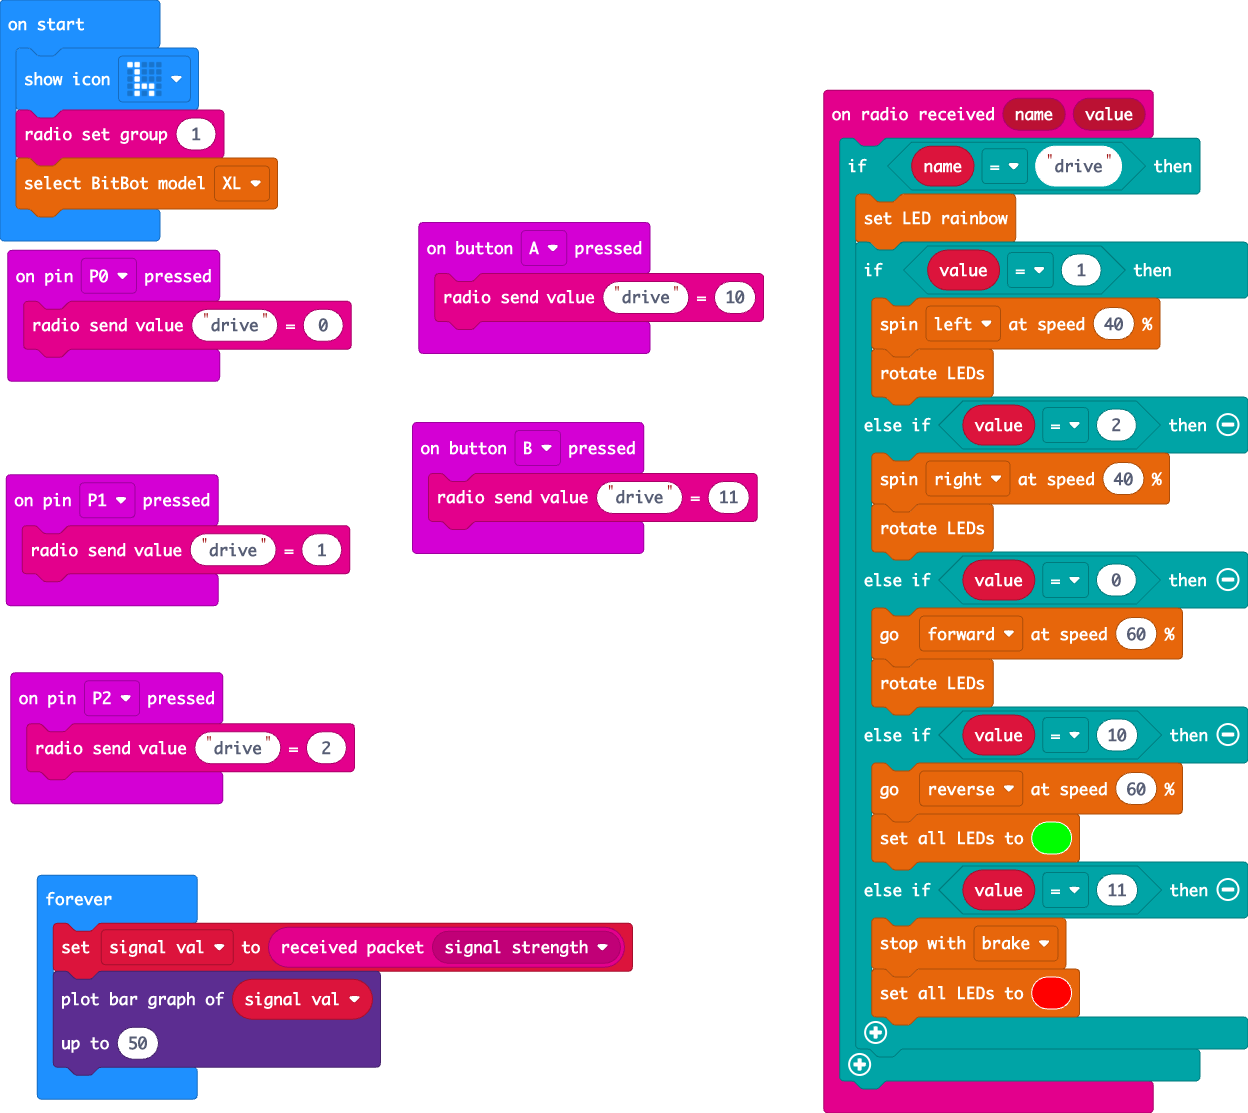
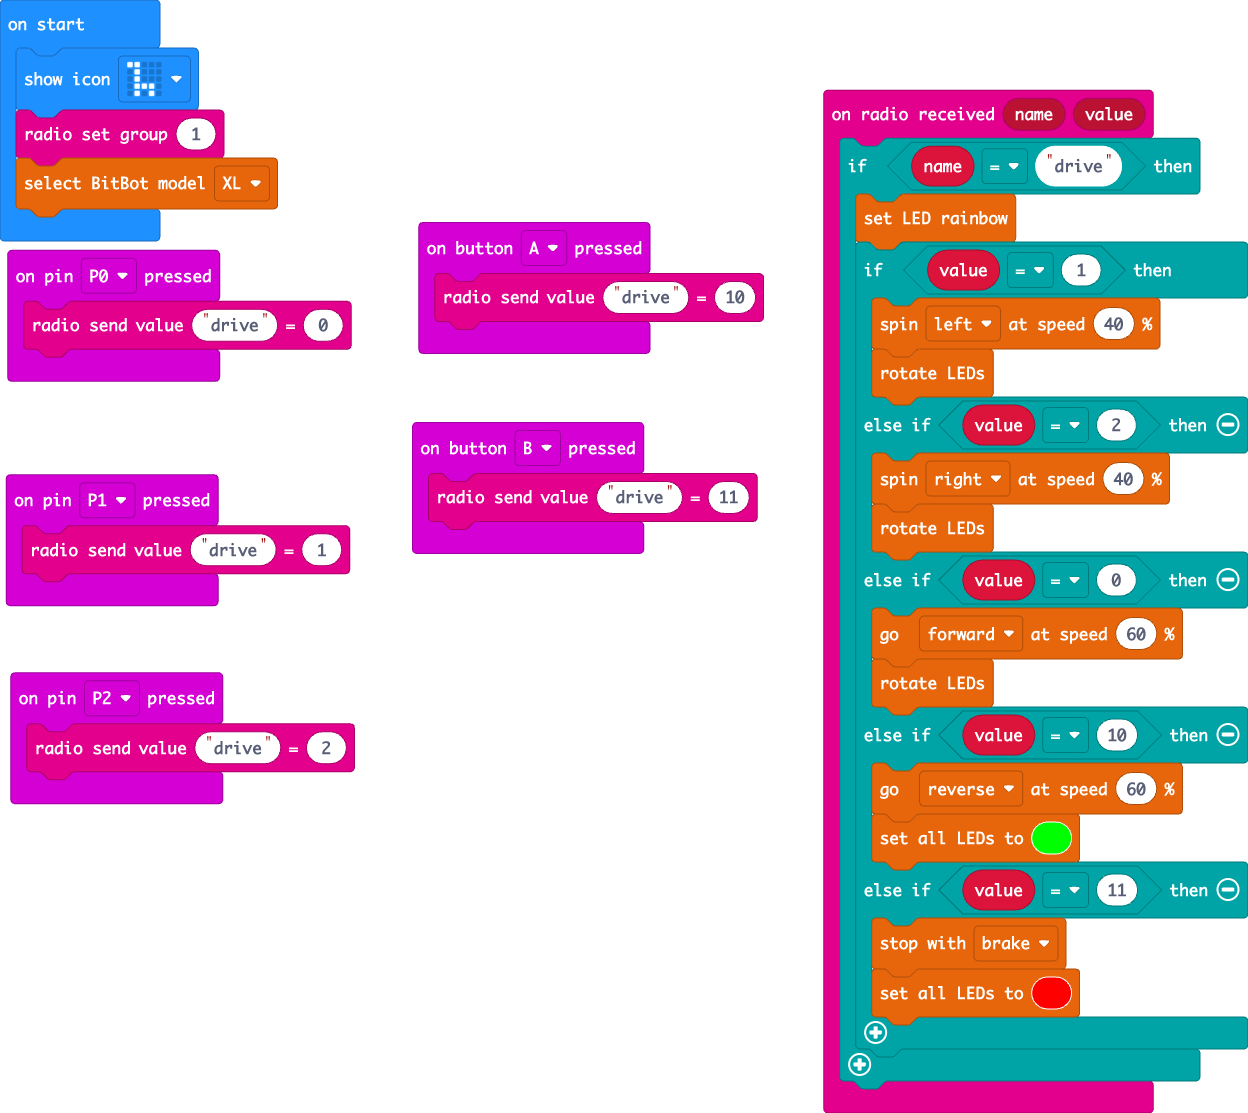
signal strength didnt work

Changed region(s): [[0.0312, 0.7637, 0.5312, 1.0]]

diff --git a/main.ts b/main.ts
@@ -34,14 +34,6 @@ radio.onReceivedValue(function (name, value) {
         }
     }
 })
-let signal_val = 0
 basic.showIcon(IconNames.Giraffe)
 radio.setGroup(1)
 bitbot.select_model(BBModel.XL)
-basic.forever(function () {
-    signal_val = radio.receivedPacket(RadioPacketProperty.SignalStrength)
-    led.plotBarGraph(
-    signal_val,
-    50
-    )
-})
